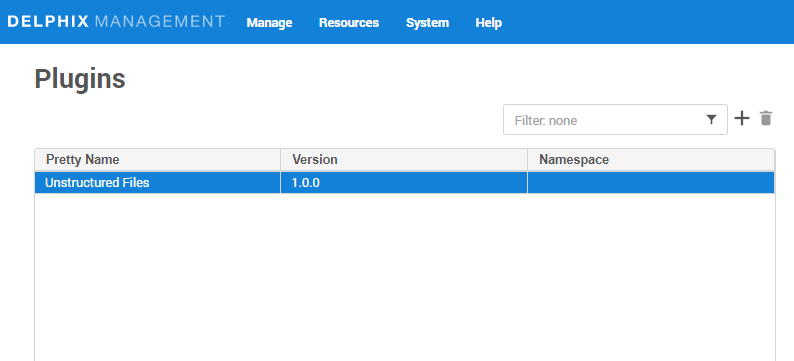
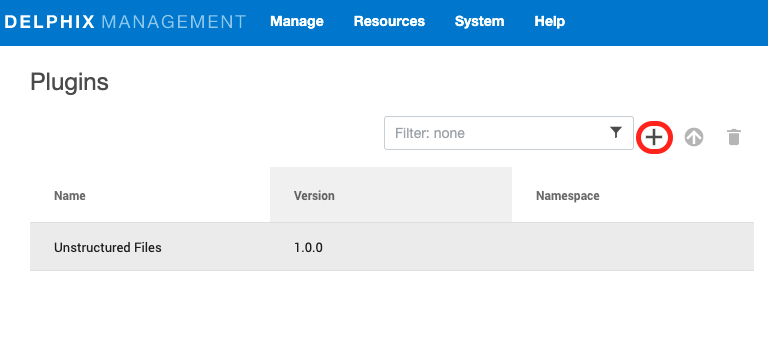
updated few more images

diff --git a/docs/docs/PluginInstallation.md b/docs/docs/PluginInstallation.md
@@ -9,41 +9,40 @@
 
 ## Installing the MariaDB Plugin
 
-### Method1: Using GUI
+### **Method 1:** Using GUI
 
 1. Click on **Manage** (present on top-left of this page) and then **Plugins**.  
    
-      ![Screenshot](/image/image2.png)
+      ![Screenshot](./image/image2.png)
 
 
-2. Click on **+** icon.  
+2. Click on **(+)** icon.  
    
       ![Screenshot](./image/image3.png)
 
 
-3. Click on **Upload** a plugin.  
-   
-      ![Screenshot](./image/image4.png)
-
-
-4. Select the `build(artifacts.json)` from your device.   
+3. Select the plugin `artifacts.json` from your device.   
    
       ![Screenshot](./image/image5.png)
 
 
-5. Click on **close** button.  
+4. Click on **Open** button.  
    
       ![Screenshot](./image/image6.png)
 
 
-6. See the plugin version in **Plugins** section.  
+5. Click on **Close** button.
    
       ![Screenshot](./image/image7.png)
 
+6. See the plugin version in **Plugins** section. 
 
-### Method2: Using dvp command
+      ![Screenshot](./image/plugin_details.png)
 
-`dvp upload -e <Delphix_Engine_Name> -u <username> --password <password>`
+
+### **Method 2:** Using dvp command
+
+`dvp upload --upload-artifact artifact.json --delphix-engine <Delphix_Engine_Name> --user <username> --password <password>`
 
 Delphix Engine's documentation on installing plugins: 
 [PluginManagement](https://docs.delphix.com/docs/datasets/unstructured-files-and-app-data/delphix-engine-plugin-management).

diff --git a/docs/docs/index.md b/docs/docs/index.md
@@ -18,12 +18,12 @@ the Delphix dSource in-sync with the MariaDB source databases.
 Creation of the dSource requires a full backup of the source database(s) and there are
 two options to providing this backup. 
 
-1. Delphix Managed Backup 
+* **Delphix Managed Backup**
    
     In this option, Delphix is provided with the required information to take 
     a full backup of the source database.
     
-2. User Provided Backup 
+* **User Provided Backup**
    
     In this option, user provides Delphix with an existing full backup. 
     Delphix initializes the staging database using the full backup and configures the 
@@ -41,7 +41,7 @@ Where to Start?
 By now, you must have an overall idea of what is possible with the MariaDB plugin. 
 Before you can get started with virtualizing your MariaDB databases, 
 there are some pre-requisites you need to take care of. 
-Please visit the [Pre-Requisites](/Pre-Requisites/General/index.html) page for more details. 
+Please visit the [Pre-Requisites](./Pre-Requisites/General/index.html) page for more details. 
 
 Questions?
 ----------------

diff --git a/docs/docs/Discovery.md b/docs/docs/Discovery.md
@@ -65,4 +65,4 @@ For the MariaDB plugin, Source config is must be created manually.
 
 
 Now that your environments are all added and a Source Config has been created, 
-please proceed to [Linking](/Linking/Replication_Mode/index.html) page to see how we can create the dSource.
+please proceed to [Linking](./Linking/Replication_Mode/index.html) page to see how we can create the dSource.
